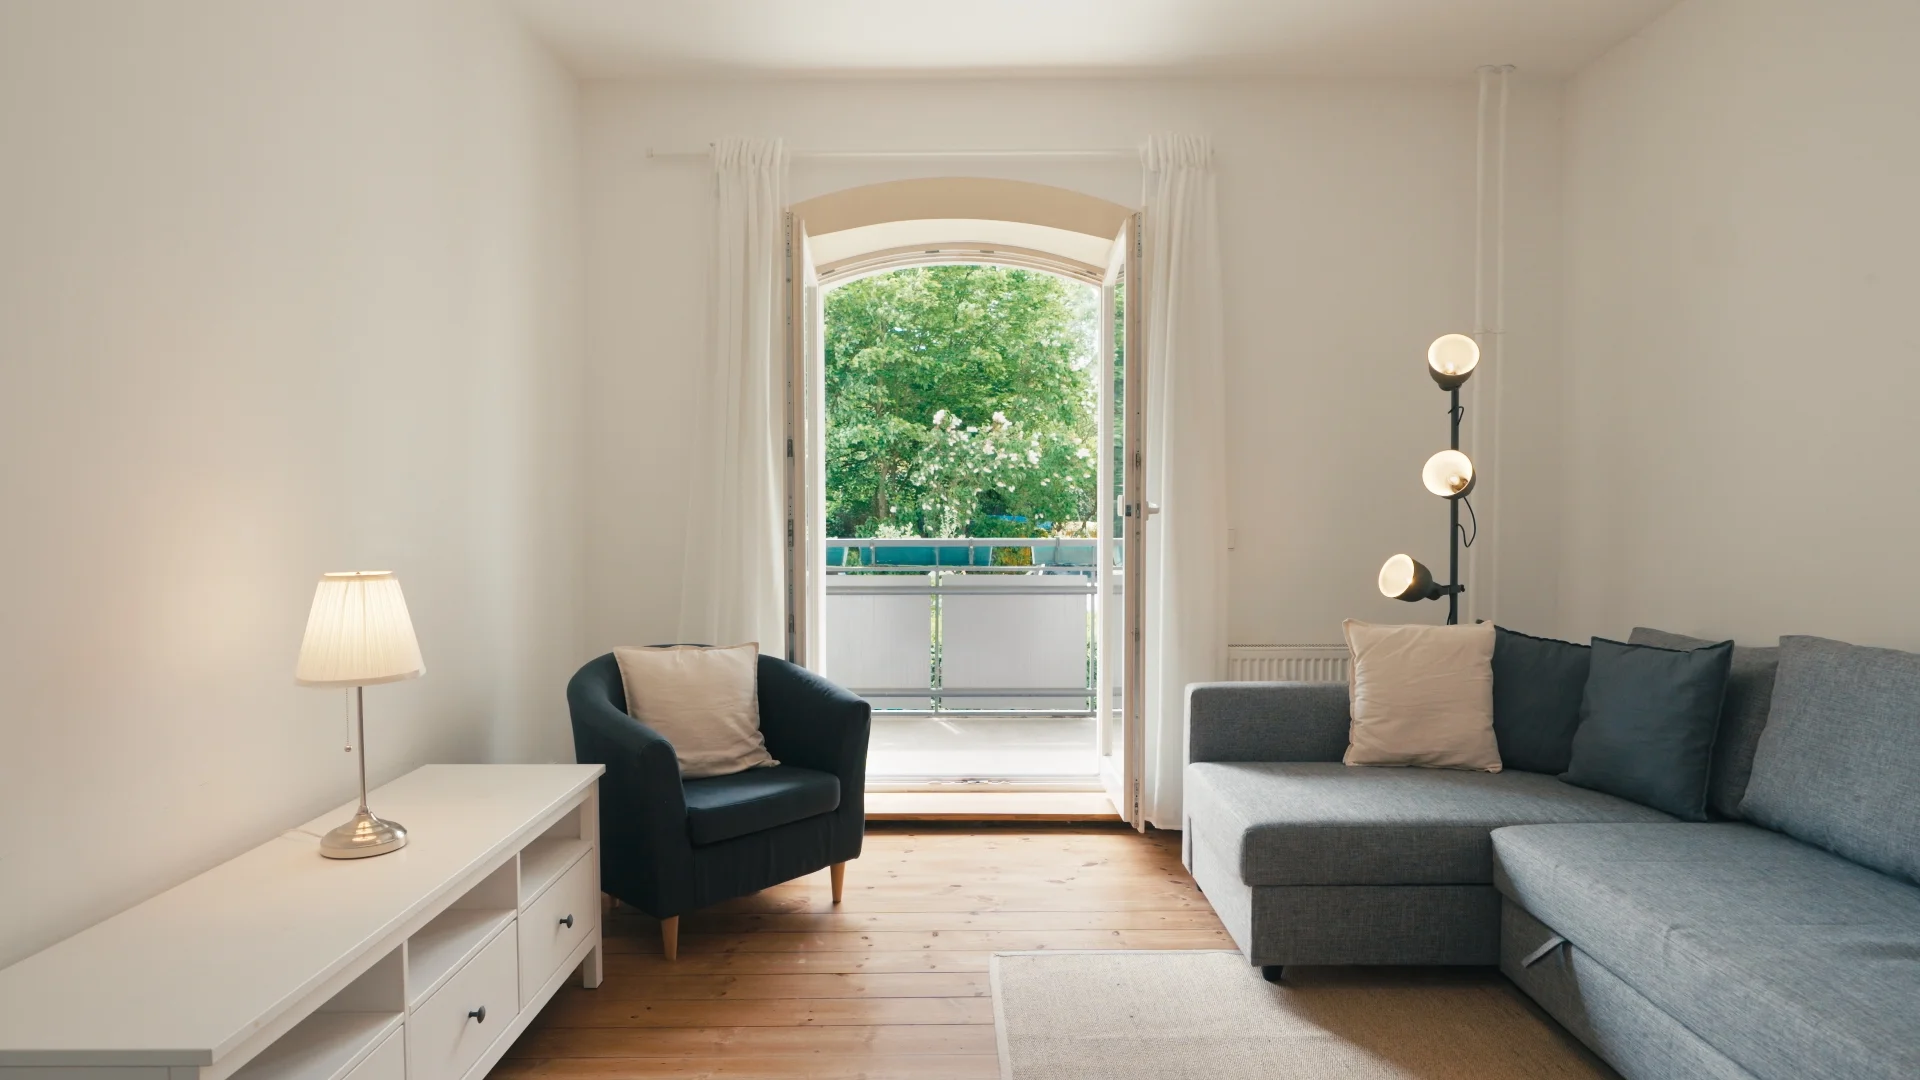
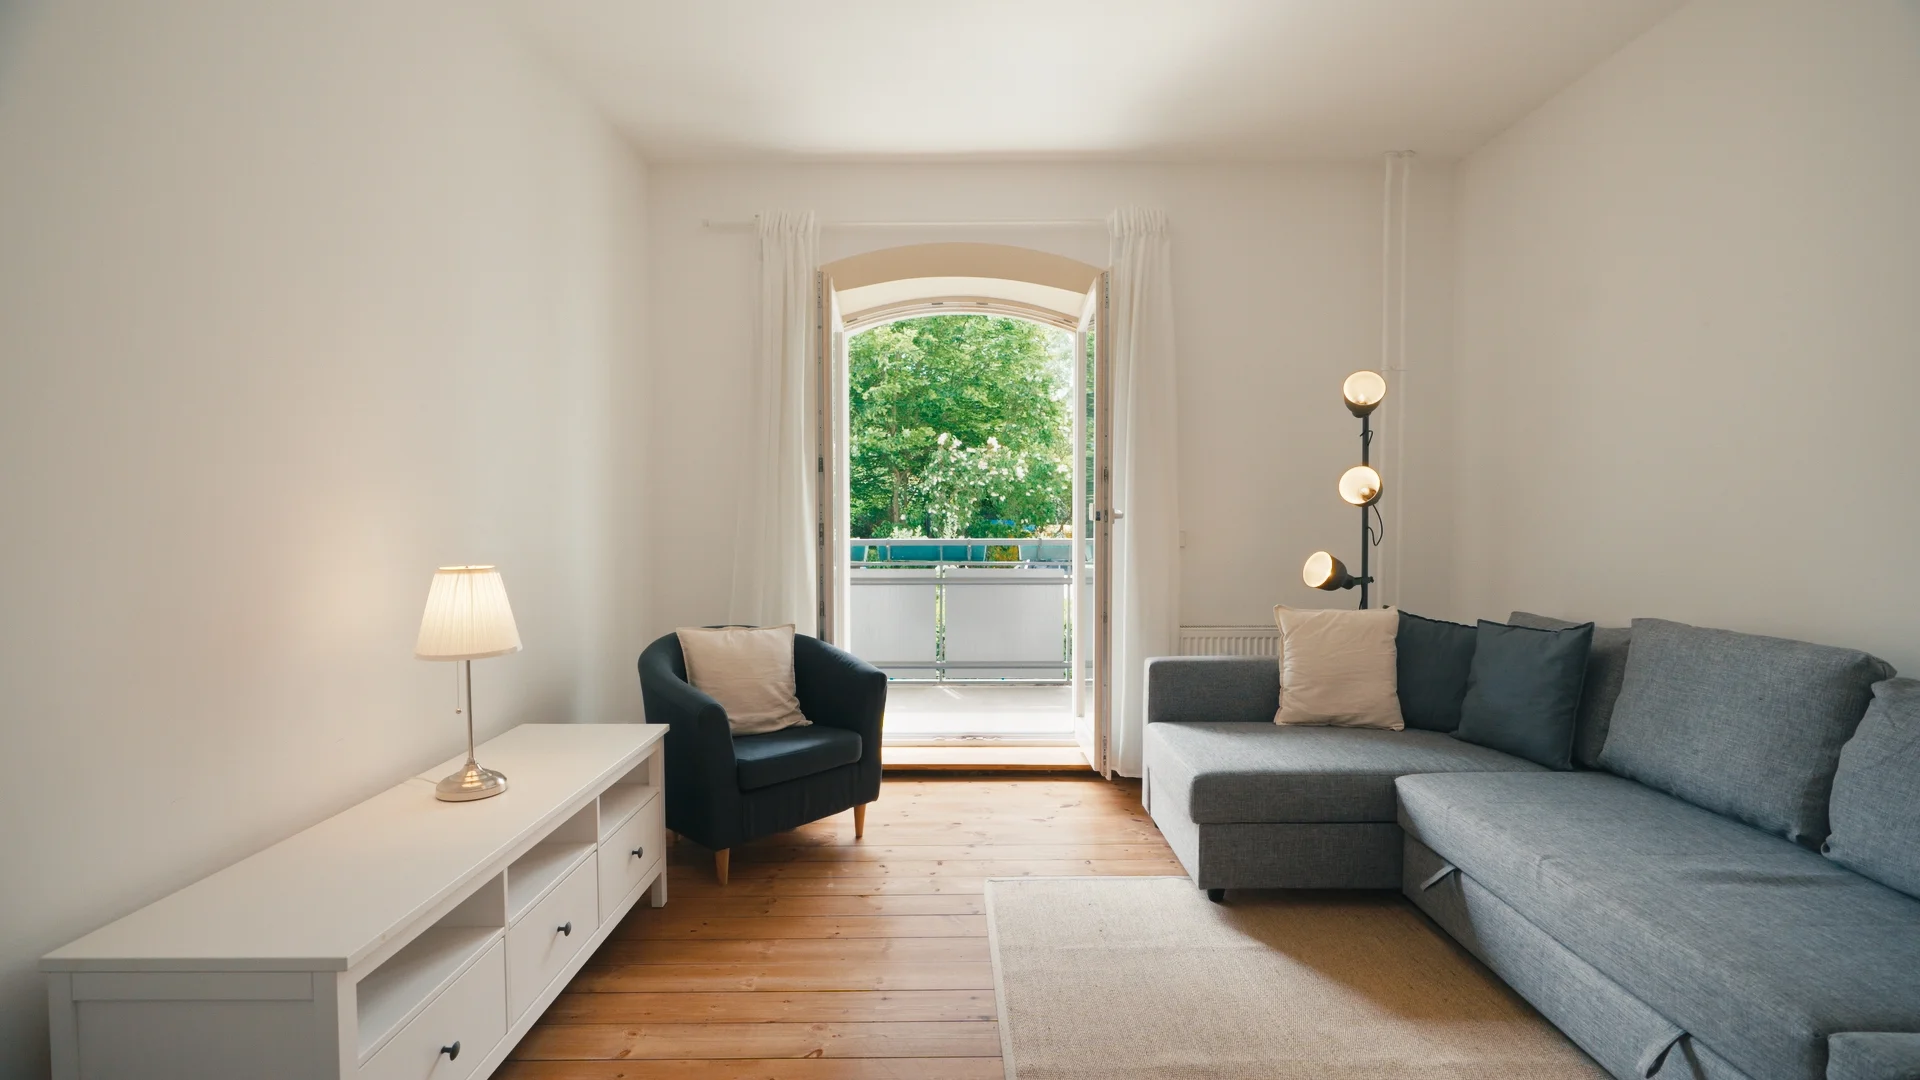
Add files via upload

diff --git a/pablovaliente.de/real-estate/index.html b/pablovaliente.de/real-estate/index.html
@@ -73,9 +73,9 @@
 
         <section class="relative overflow-hidden mb-6 lg:mb-24">
             <div class="flex space-x-4 md:space-x-8 lg:space-x-12 overflow-x-auto kinetic-scroll snap-x snap-mandatory scroll-smooth pb-4" id="slider" style="outline: none;">
-                <div class="min-w-[109vw] md:min-w-[95vw] lg:min-w-[77vw] snap-center relative">
-                    <div class="slide-wrap" style="aspect-ratio: 16/9;">
-                        <iframe src="https://player.vimeo.com/video/1192061405?autoplay=1&loop=1&muted=1&background=1&autopause=0&controls=0&title=0&byline=0&portrait=0&dnt=1" allow="autoplay; fullscreen; picture-in-picture" allowfullscreen title="Urban Living Berlin"></iframe>
+                <div class="min-w-[92vw] md:min-w-[80vw] lg:min-w-[65vw] snap-center relative">
+                    <div class="slide-wrap" style="aspect-ratio: 3/2;">
+                        <iframe style="width: 118.5%; height: 100%;" src="https://player.vimeo.com/video/1192061405?autoplay=1&loop=1&muted=1&background=1&playsinline=1&autopause=0&controls=0&title=0&byline=0&portrait=0&dnt=1" allow="autoplay; fullscreen; picture-in-picture" allowfullscreen playsinline title="Urban Living Berlin"></iframe>
                     </div>
                 </div>
                 <div class="min-w-[92vw] md:min-w-[80vw] lg:min-w-[65vw] snap-center relative">
